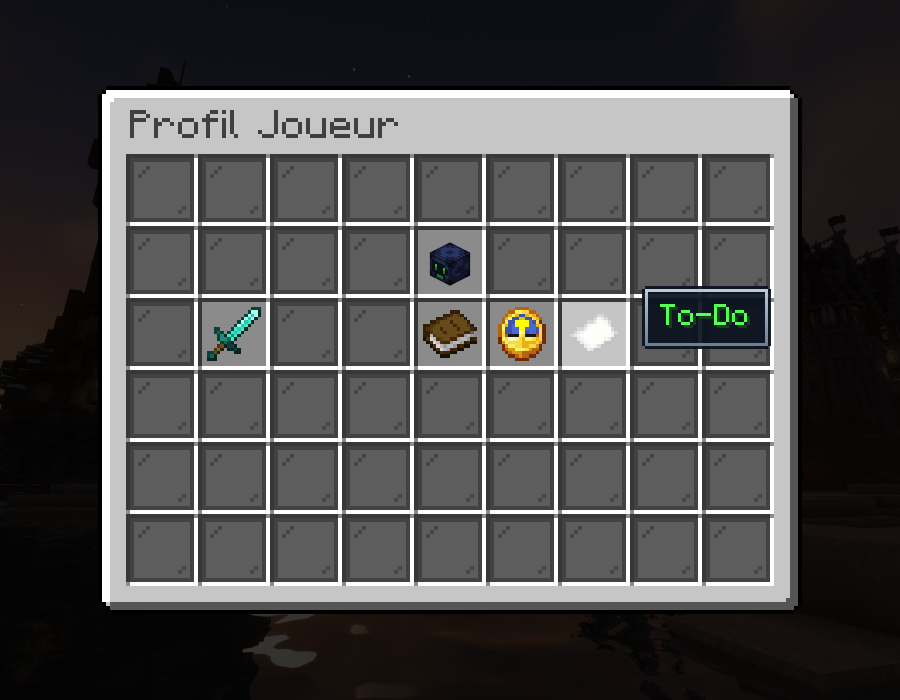
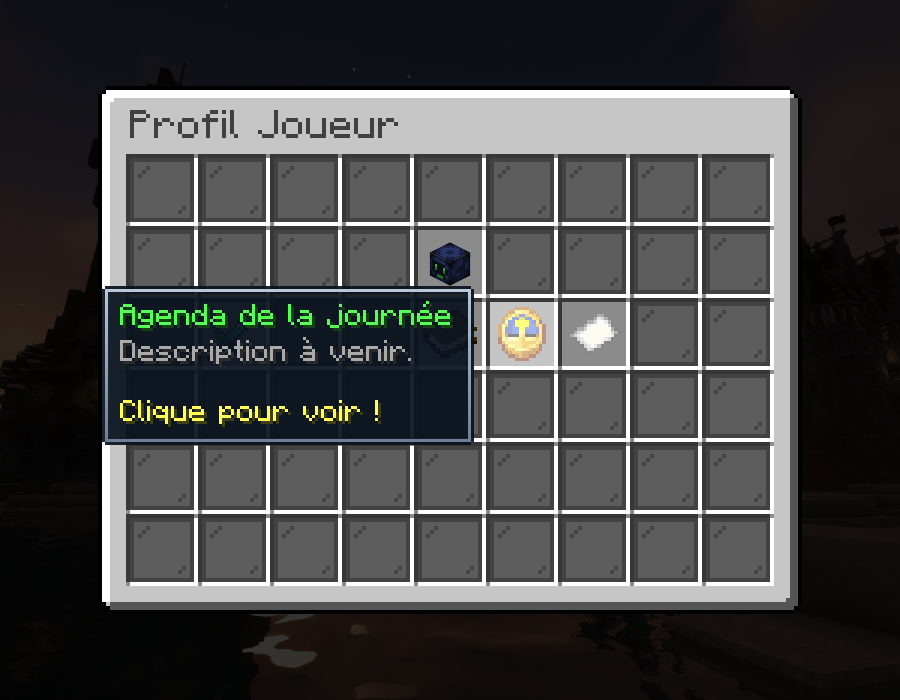
Overlay complet (description + « Clique pour voir ! ») pour PMH, Agenda et To-Do
Claude-Session: https://claude.ai/code/session_019gCBZ2Dy19V3W7UiEquzyT

Changed region(s): [[0.0933, 0.39, 0.8711, 0.66]]

diff --git a/index.html b/index.html
@@ -57,9 +57,9 @@ const LORE = ['§7Description à venir.', '', '§eClique pour voir !'];
 const LAYOUT = {
   '1,4': { head: 'profile', tooltip: ['§aTon profil', ...LORE] },
   '2,1': { item: 'diamond_sword', tooltip: ['§aCompétences', ...LORE] },
-  '2,4': { item: 'book', tooltip: ['§aPMH'] },
-  '2,5': { item: 'clock_00', tooltip: ['§aAgenda de la journée'] },
-  '2,6': { item: 'paper', tooltip: ['§aTo-Do'] },
+  '2,4': { item: 'book', tooltip: ['§aPMH', ...LORE] },
+  '2,5': { item: 'clock_00', tooltip: ['§aAgenda de la journée', ...LORE] },
+  '2,6': { item: 'paper', tooltip: ['§aTo-Do', ...LORE] },
 };
 
 const FILES = [
